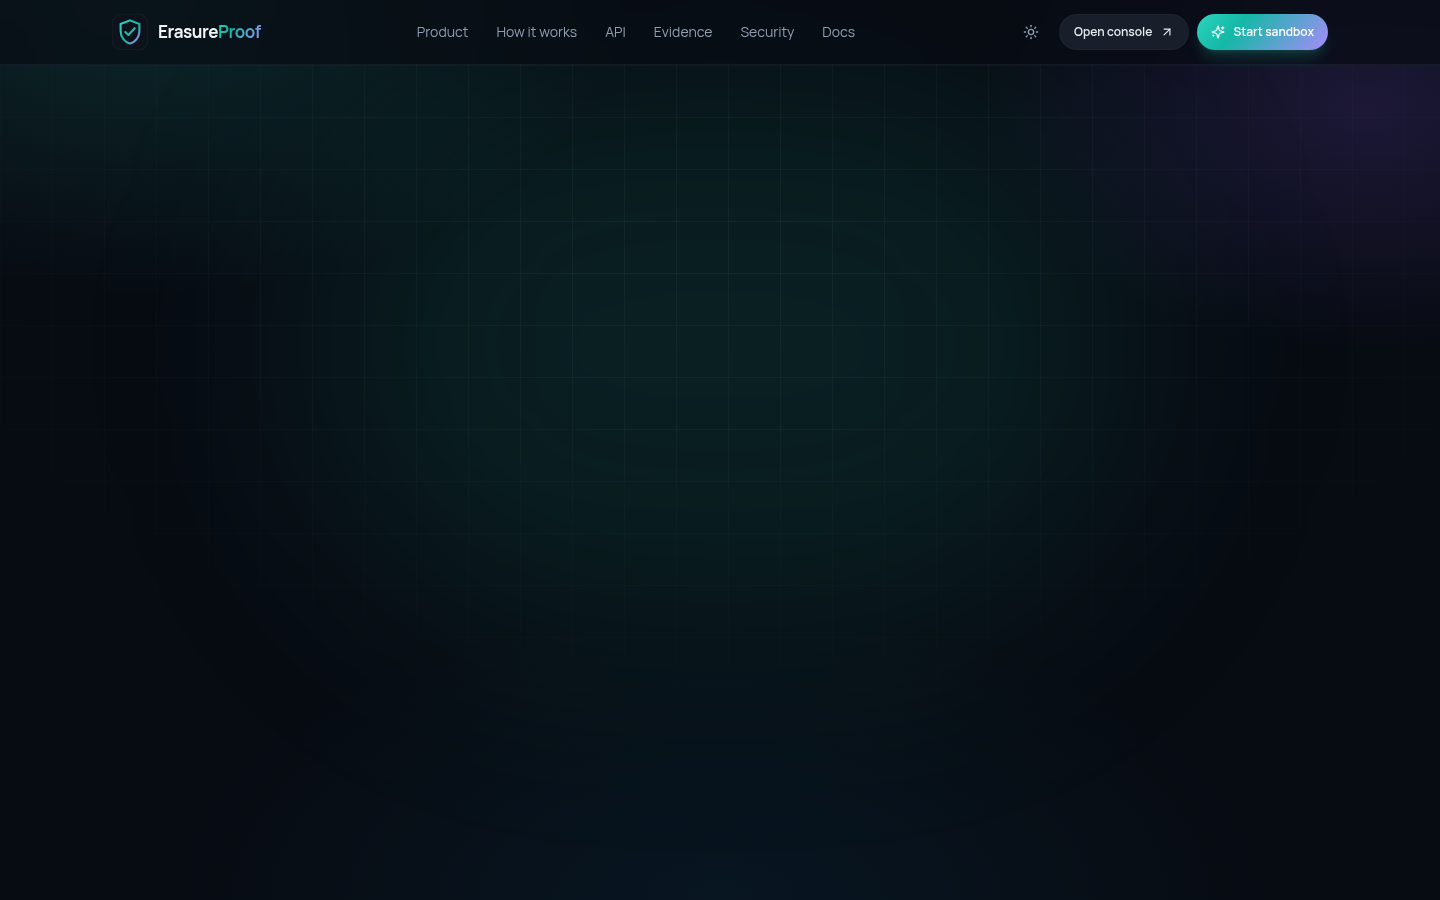
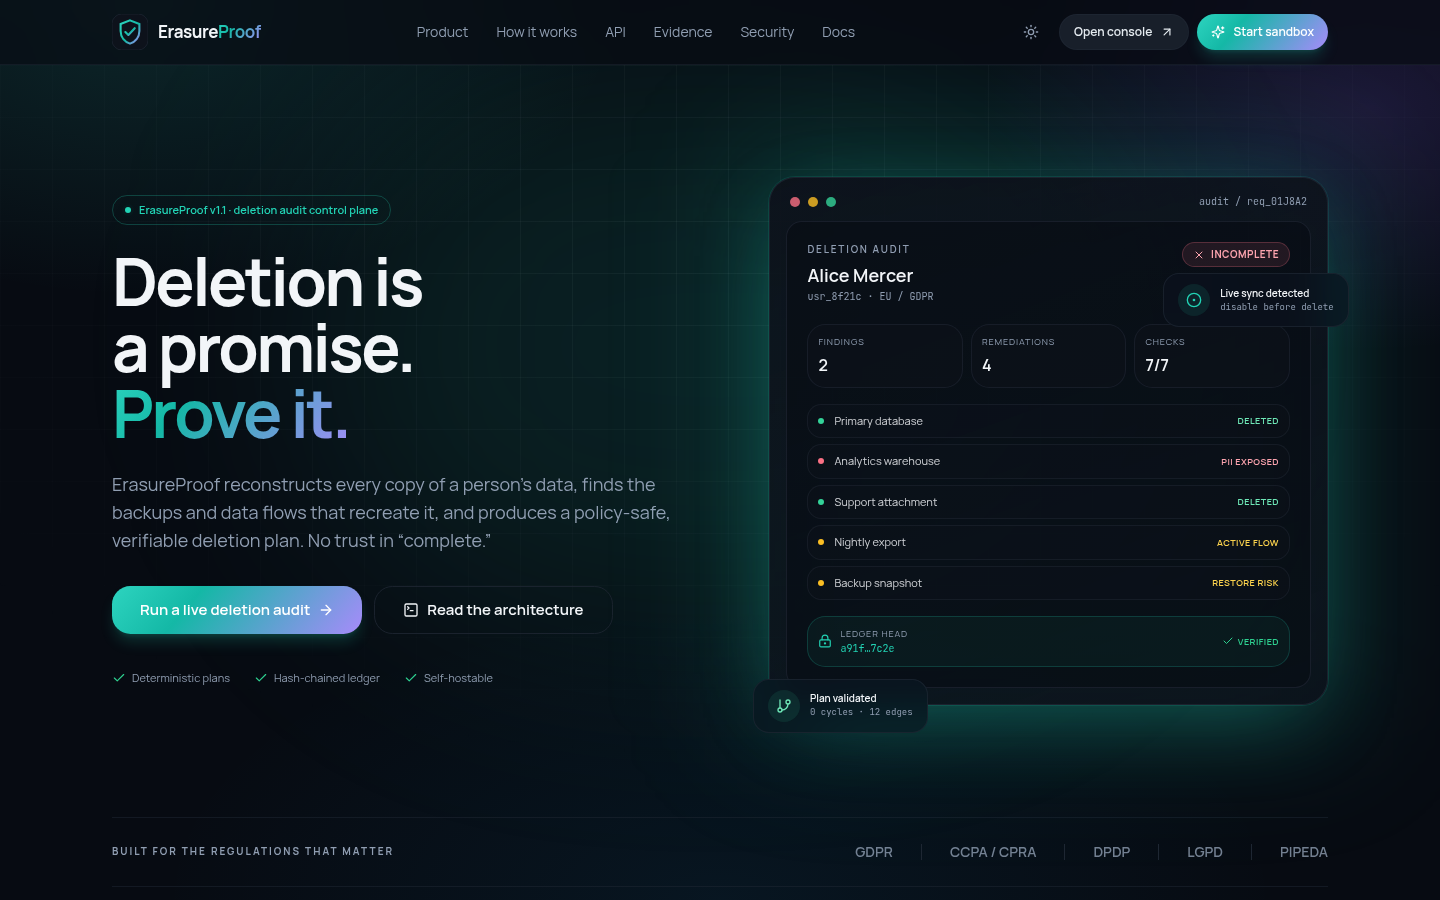
Finalize release screenshots and evidence
Capture the v1.1 hosted overview and landing page, restore the percentage metrics after the fix, and document the full v1.1.0 release gate and deployment caveats.

diff --git a/docs/RELEASE.md b/docs/RELEASE.md
@@ -1,0 +1,46 @@
+# Release v1.1.0
+
+**Status: stable.** This is the first tagged public release of ErasureProof.
+
+- Release date: 2026-10-28
+- API, console, and SDK version: `1.1.0`
+- License: Apache-2.0
+
+## Release gate
+
+| Check | Result |
+| --- | --- |
+| `make check` (ruff, pytest, SDK compile, console typecheck/build) | Pass: 80 tests passed, 1 skipped |
+| GitHub Actions `ci.yml` on `main` | Pass |
+| Production Docker image build | Pass |
+| Docker smoke test | Health, readiness, docs, console, SPA deep link, and demo seed returned `200` |
+| Docker end-to-end audit | `COMPLETE`, 13 verification checks, 64-character signature |
+| Ledger and attestation verification | Ledger `OK` (34 entries); attestation `VALID` |
+| Production configuration guard | Startup rejected disabled authentication and the default attestation key |
+| Production auth smoke test | Unauthenticated request `401`; authenticated request `200`; sandbox `201` |
+| Hosted API | `/healthz` returns `1.1.0` against PostgreSQL |
+| Hosted sandbox and audit | Sandbox created, audit completed, evidence attributed, attestation and ledger verified |
+| Hosted console | Landing, console, API-key management, and overview rendered with correct percentage metrics |
+
+## Stable-release decision
+
+The release is stable. No authentication, authorization, tenant-isolation,
+evidence-integrity, attestation, ledger, or data-loss defects were found during
+the release pass. One presentation defect was found during hosted smoke testing:
+the overview multiplied already-percentage API values by 100. It was fixed,
+rebuilt, redeployed, and rechecked before the tag was created.
+
+## Deployment caveats
+
+These are operational limits, not release blockers:
+
+- The public hosted demo runs on Render's free tier. Evidence and ledger files
+  live on an ephemeral filesystem, so use persistent disk or object storage for
+  durable production evidence.
+- The free Render PostgreSQL instance has a finite lifetime and must be upgraded
+  or replaced before production use.
+- Self-service sandbox remediation approval is disabled to keep the public demo
+  useful. Enable `ERASUREPROOF_REQUIRE_REMEDIATION_APPROVAL` for production
+  destructive runs.
+- The hosted demo is rate-limited and shares a single free instance. Use the
+  documented Docker, Compose, or Kubernetes paths for production capacity.

diff --git a/CHANGELOG.md b/CHANGELOG.md
@@ -17,7 +17,8 @@ needed to run ErasureProof as a shared service.
 - Console API key management page and one-time sandbox onboarding dialog.
 - Hosted console onboarding, developer quickstart, and live deployment links.
 - Python SDK, API reference, Render blueprint, and deployment guide.
-- Release banner, README quickstart, CI badge, and GitHub Sponsors support.
+- Release banner, README quickstart, release evidence, CI badge, and GitHub
+  Sponsors support.
 
 ### Fixed
 

diff --git a/README.md b/README.md
@@ -555,7 +555,13 @@ tools are unavailable.
 
 ## Web console
 
-The console reads the same REST API as the CLI. It contains:
+The console reads the same REST API as the CLI.
+
+![ErasureProof overview dashboard](docs/assets/dashboard.png)
+
+<p align="center"><sub>Overview: proven findings, verification rate, attestation coverage, risk, evidence, and the live ledger.</sub></p>
+
+It contains:
 
 | View | Purpose |
 |---|---|
